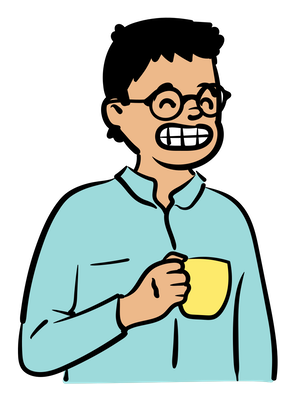
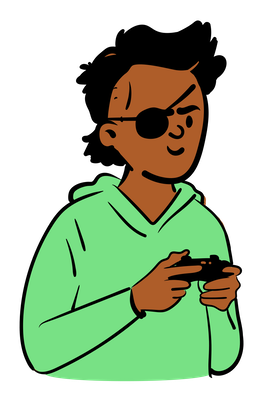
add personal data

diff --git a/index.html b/index.html
@@ -33,21 +33,18 @@
     <div class="half-section">
      <div class="avatar-container">
       <img src="./assets/avatar.png" alt="">
-      <h3>"Yo, disfrutando de mi café..."</h3>
+      <h3>"Yo, un día normal..."</h3>
      </div>
     </div>
     <div class="half-section text-section">
       <div class="introduction">
-        <h1 class="title">Hola!, <br> Soy Nombre y Apellido </h1>
+        <h1 class="title">Hola!, <br> Soy Mariano Cruz </h1>
         <ul class="socials">
-          <li><a class="socials-icon" href=""><i class="bi bi-github"></i></a></li>
-          <li><a class="socials-icon" href=""><i class="bi bi-linkedin"></i></a></li>
-          <li><a class="socials-icon" href=""><i class="bi bi-twitter"></i></a></li>
-          <li><a class="socials-icon" href=""><i class="bi bi-facebook"></i></a></li>
-          <li><a class="socials-icon" href=""><i class="bi bi-instagram"></i></a></li>
+          <li><a class="socials-icon" href="https://github.com/pantera2580"><i class="bi bi-github"></i></a></li>
+          <li><a class="socials-icon" href="https://www.linkedin.com/in/marianoecruz/"><i class="bi bi-linkedin"></i></a></li>
         </ul>
   
-        <p class="description">+15 años de experiencia trabajando en aplicaciones de alta escala. <br> Déjame contarte un poco de mí, sigue deslizando!</p>
+        <p class="description"> 1 año de experiencia trabajando en Java. <br> Déjame contarte un poco de mí, sigue deslizando!</p>
       </div>
 
     </div>
@@ -56,16 +53,17 @@
   <section id="about" class="content">
     <aside class="half-section text-section">
       <p>
-        Lorem ipsum dolor sit amet consectetur adipisicing elit. Autem sint porro reiciendis debitis et harum animi rem fugit eaque. Officia maxime id ipsum culpa temporibus dolore saepe quos quasi debitis.
-        Lorem ipsum dolor sit amet consectetur adipisicing elit. Sapiente quisquam rem quam, corporis itaque dolor deserunt libero doloremque quibusdam repellat quidem doloribus quia eos officia placeat, quasi, odit repellendus ipsa.
+        Hola, gracias por visitar mi sitio web!
+      </p>
+      <p>Soy oriundo de la provincia de Jujuy, estudiante de Ing. Qca y Analista Programador en la Universidad Nacional de Jujuy. </p>
+      <p>
+        Siempre fue apasionado por la tecnologia y hace 1 año arranque en este maravilloso mundo del desarrollo Web. Mi fuerte es el desarrollo backend con Java + Spring Boot (Java fue amor a primera vista). Tengo un año de experiencia programando en esta tecnologia en proyectos personales
       </p>
       <p>
-        Lorem ipsum dolor sit amet consectetur adipisicing elit. Repellendus dolore esse a officiis autem sint harum quos rerum neque aut, totam itaque iure perferendis vitae reiciendis praesentium corporis saepe consectetur.
-        Lorem ipsum dolor sit amet consectetur adipisicing elit. Obcaecati veniam, deleniti rem, neque ipsum eos ullam distinctio, atque harum perferendis itaque ipsam labore voluptatibus. Maiores provident perspiciatis sunt mollitia impedit.
+        Posee conocimientos de Angular para el desarrollo Front End, aunque por ahora no he encarado ningun proyecto reelevante.
       </p>
       <p>
-        Lorem ipsum dolor sit amet consectetur adipisicing elit. Repellendus dolore esse a officiis autem sint harum quos rerum neque aut, totam itaque iure perferendis vitae reiciendis praesentium corporis saepe consectetur.
-        Lorem ipsum dolor sit amet consectetur adipisicing elit. Obcaecati veniam, deleniti rem, neque ipsum eos ullam distinctio, atque harum perferendis itaque ipsam labore voluptatibus. Maiores provident perspiciatis sunt mollitia impedit.
+        Me encanta el software libre y soy un habil usuario de Linux.
       </p>
     </aside>
     <aside class="half-section title-section">
@@ -80,31 +78,27 @@
     <aside class="half-section text-section">
         <ul class="project-list">
           <li>
-            <h3>Proyecto 1</h3>
+            <h3>API Ong Somos Más</h3>
             <p>
-              Lorem ipsum dolor sit amet, consectetur adipisicing elit.
-              Quisquam, quidem, quisquam.
-              Lorem ipsum dolor sit amet consectetur adipisicing elit. Impedit architecto sapiente itaque eius voluptate! Nisi voluptas explicabo quaerat? Alias perspiciatis vel praesentium adipisci impedit? Commodi harum repellat eum beatae dolorum.
+              Proyeto de backend en Java + Spring Boot desarrollado durante el trayecto de aceleracion Alkemy
             </p>
-            <a class="project-link" href="#"><i class="bi bi-github"></i> Ver más</a>
+            <a class="project-link" href="https://github.com/pantera2580/API-REST---OT186-server"><i class="bi bi-github"></i> Ver más</a>
           </li>
           <li>
-            <h3>Proyecto 2</h3>
+            <h3>API Dna Verifier</h3>
             <p>
-              Lorem ipsum dolor sit amet, consectetur adipisicing elit.
-              Quisquam, quidem, quisquam.
-              Lorem ipsum dolor sit amet consectetur adipisicing elit. Impedit architecto sapiente itaque eius voluptate! Nisi voluptas explicabo quaerat? Alias perspiciatis vel praesentium adipisci impedit? Commodi harum repellat eum beatae dolorum.
-            </p>
-            <a class="project-link" href="#"><i class="bi bi-github"></i> Ver más</a>
+              Proyecto de backend en Java + Spring Boot realizada como prueba tecnica para una entrevista.
+              La Api testea los dna pasados como un array de string y luego de una validacion de formato retorna si presenta malformaciones (cuatro o mas coincidencias horizonal, vertical u oblicua).
+              Para generar peticiones es necesario autenticarse mediante JWT.</p>
+            <a class="project-link" href="https://github.com/pantera2580/dnaVerifier"><i class="bi bi-github"></i> Ver más</a>
           </li>
           <li>
-            <h3>Proyecto 3</h3>
+            <h3>API Mundo Disney</h3>
             <p>
-              Lorem ipsum dolor sit amet, consectetur adipisicing elit.
-              Quisquam, quidem, quisquam.
-              Lorem ipsum dolor sit amet consectetur adipisicing elit. Impedit architecto sapiente itaque eius voluptate! Nisi voluptas explicabo quaerat? Alias perspiciatis vel praesentium adipisci impedit? Commodi harum repellat eum beatae dolorum.
-            </p>
-            <a class="project-link" href="#"><i class="bi bi-github"></i> Ver más</a>
+              Proyecto de backend en Java + Spring Boot desarrollado como challenge para aplicar a Alkemy.
+              La Api lista peliculas de disney por genero, personajes y algunos filtros más.
+              La api autentica las peticiones utilizando JWT.</p>
+            <a class="project-link" href="https://github.com/pantera2580/apiSpring"><i class="bi bi-github"></i> Ver más</a>
           </li>
         </ul>
     </aside>
@@ -115,7 +109,7 @@
         <label for="name">Nombre</label>
         <input class="input-field" type="text" name="name" id="name">
         <label for="email">Email</label>
-        <input class="input-field type="email" name="email" id="email">
+        <input class="input-field" type="email" name="email" id="email">
         <label for="message">Mensaje</label>
         <textarea class="input-field" name="message" id="message" cols="30" rows="10"></textarea>
         <input class="btn-send-message" type="submit" value="Enviar">
@@ -128,16 +122,14 @@
   <footer>
     <div class="footer-section-container">
       <ul class="socials">
-        <li><a class="socials-icon" href=""> <i class="bi bi-github"></i></a></li>
-        <li><a class="socials-icon" href=""><i class="bi bi-linkedin"></i></a></li>
-        <li><a class="socials-icon" href=""><i class="bi bi-twitter"></i></a></li>
-        <li><a class="socials-icon" href=""><i class="bi bi-facebook"></i></a></li>
-        <li><a class="socials-icon" href=""><i class="bi bi-instagram"></i></a></li>
+        <li><a class="socials-icon" href="https://github.com/pantera2580/"> <i class="bi bi-github"></i></a></li>
+        <li><a class="socials-icon" href="https://www.linkedin.com/in/marianoecruz/"><i class="bi bi-linkedin"></i></a></li>
+
       </ul>
     </div>
       <div class="footer-section-container">
         <p>
-          &copy; 2022 - <a class="footer-link" href="https://www.linkedin.com">Nombre y Apellido</a>
+          &copy; 2022 - <a class="footer-link" href="https://www.linkedin.com/in/marianoecruz/">Mariano Cruz</a>
         </p>
       </div>
   </footer>
